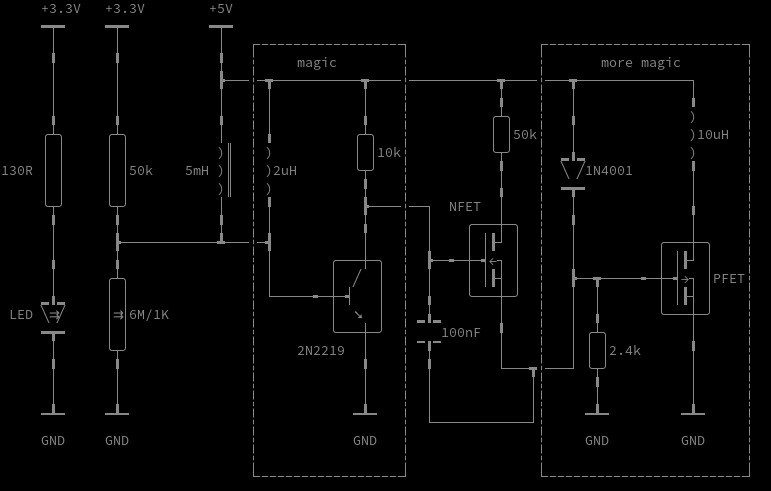
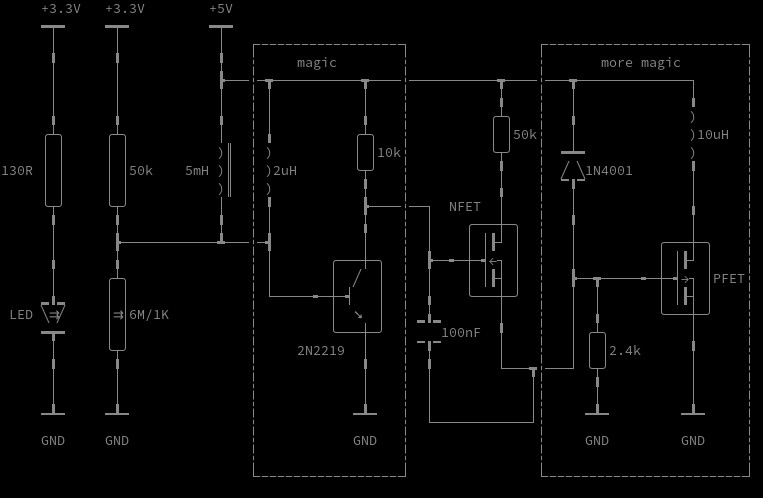
fixed diode/led orientation

diff --git a/kicad2unicode.py b/kicad2unicode.py
@@ -83,12 +83,30 @@ LED = ((0,0),
      " │ "
     ])
 
+LED2 = ((0,0),
+    [
+     " │ ",
+     "━┷━",
+     "╱⇉╲",
+     "▔╿▔",
+     " │ "
+    ])
+
 DIODE = ((0,0),
     [
      " │ ",
      "▁╽▁",
      "╲ ╱",
      "━┳━",
+     " │ "
+    ])
+
+DIODE2 = ((0,0),
+    [
+     " │ ",
+     "━┷━",
+     "╱ ╲",
+     "▔╿▔",
      " │ "
     ])
 
@@ -494,7 +512,10 @@ def main():
                 pos = parse_position(i[2], norm)
                 ref = parse_reference(i, norm)
                 val = parse_value(i, norm)
-                devices.append( (pos, LED, ref, val) )
+                if pos[2] == 270:
+                    devices.append( (pos, LED2, ref, val) )
+                else:
+                    devices.append( (pos, LED, ref, val) )
             elif i[1][1] == '"power:GND"':
                 pos = parse_position(i[2], norm)
                 ref = parse_reference(i, norm)
@@ -511,7 +532,10 @@ def main():
                 pos = parse_position(i[2], norm)
                 ref = parse_reference(i, norm)
                 val = parse_value(i, norm)
-                devices.append( (pos, DIODE, ref, val) )
+                if pos[2] == 270:
+                    devices.append( (pos, DIODE2, ref, val) )
+                else:
+                    devices.append( (pos, DIODE, ref, val) )
             elif re.match('"Transistor_BJT', i[1][1]):
                 pos = parse_position(i[2], norm)
                 ref = parse_reference(i, norm)
